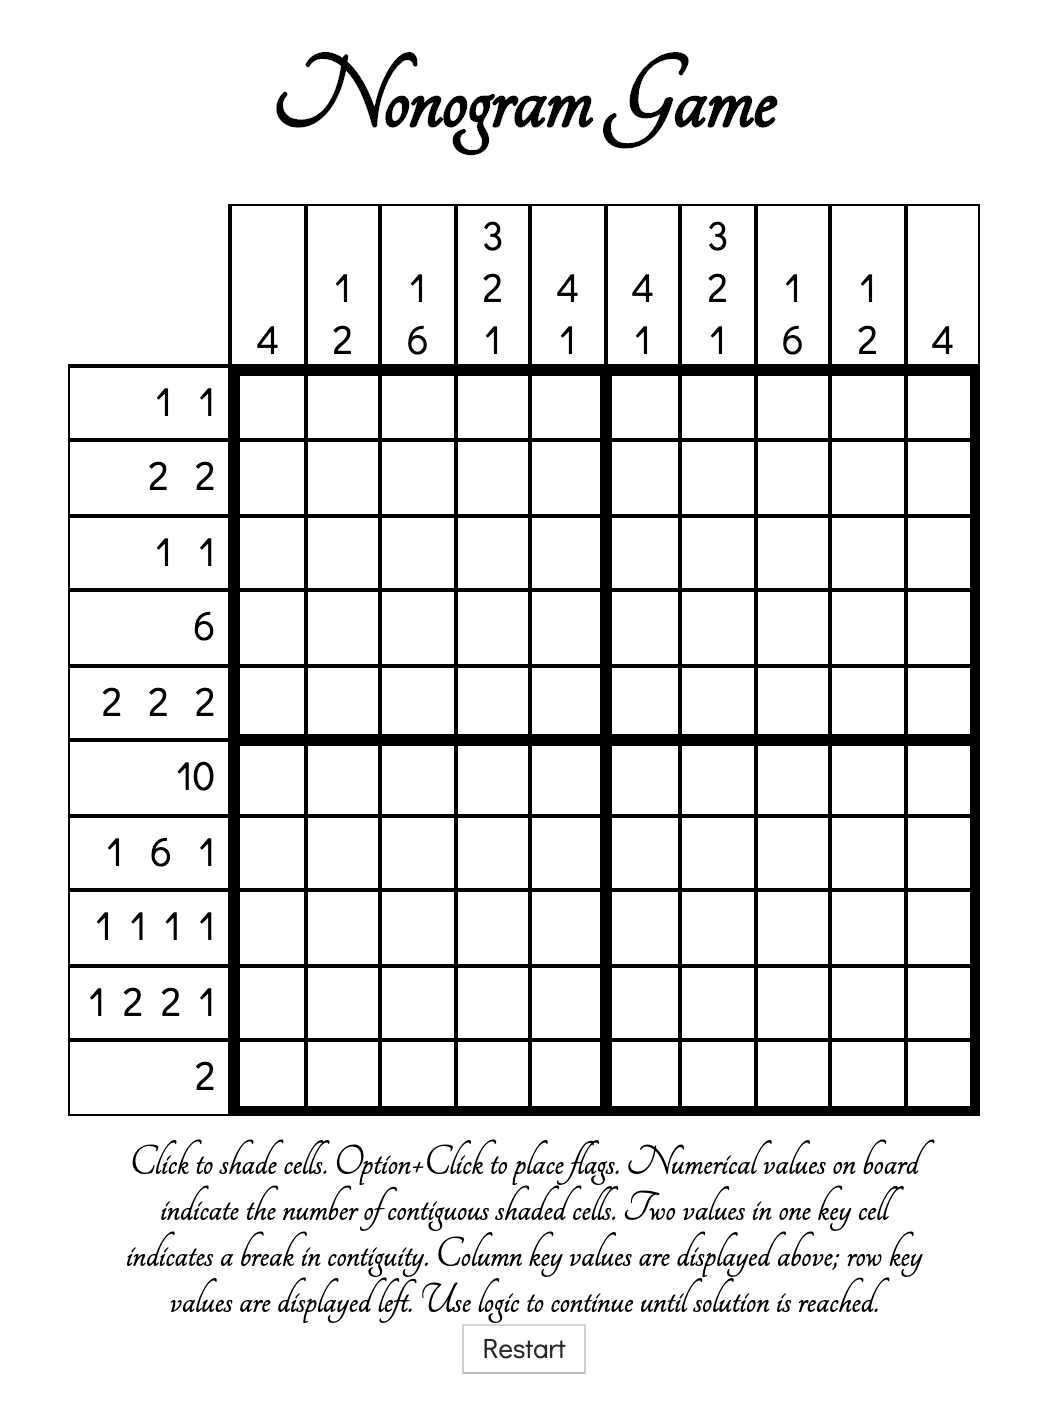
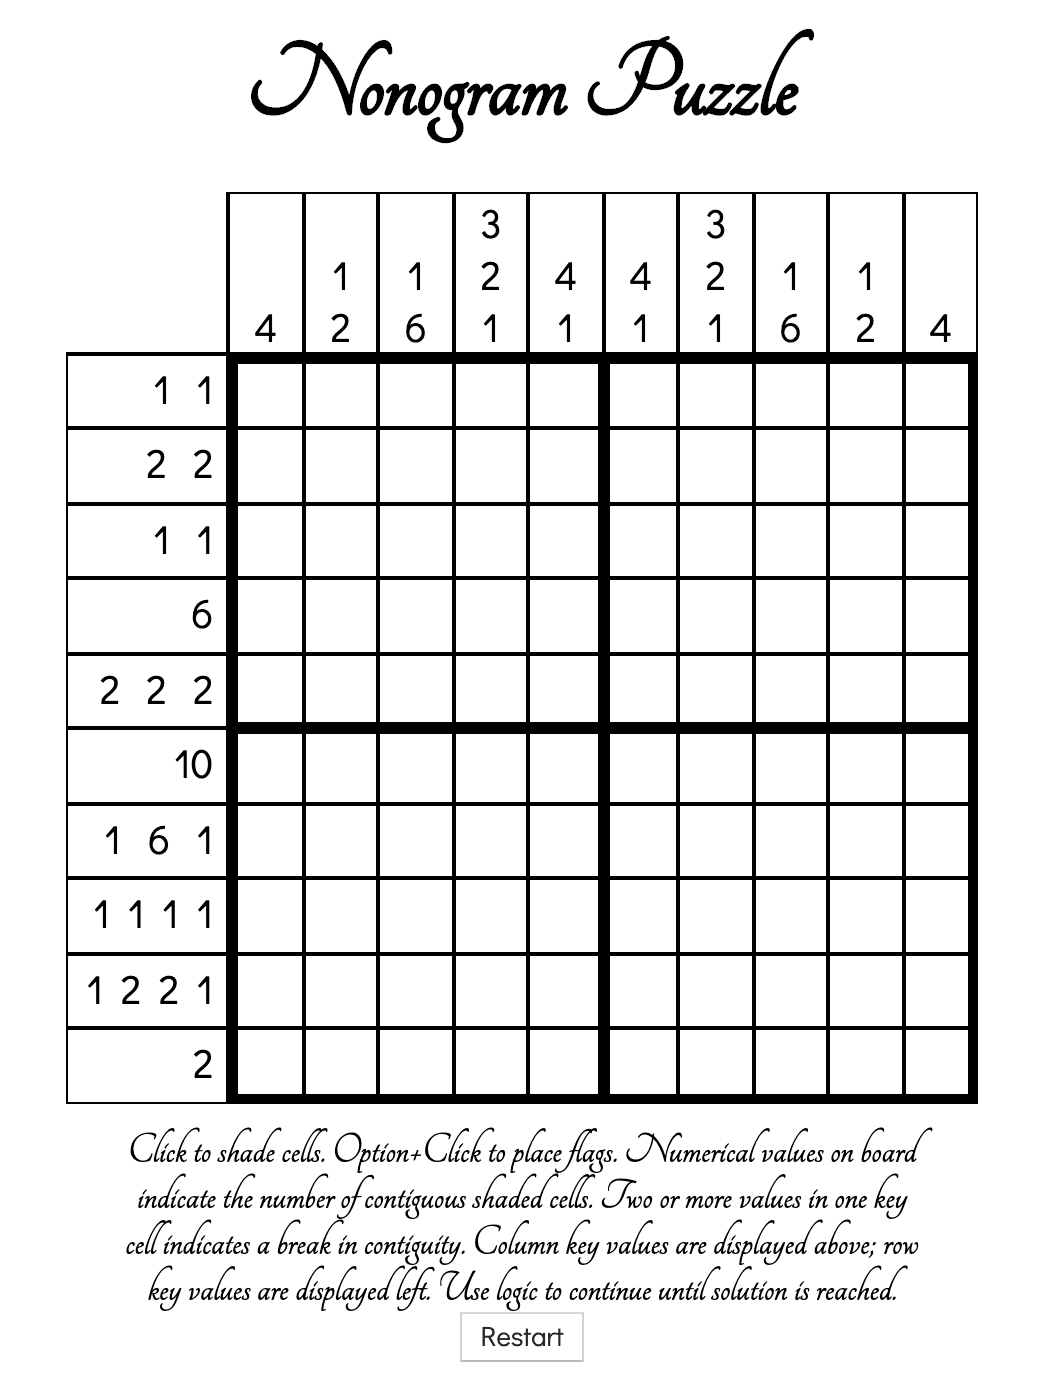
Change name, add instructions to readme

Changed region(s): [[0.0612, 0.0307, 0.9484, 0.9829], [0.0612, 0.6757, 0.2447, 0.7371], [0.0612, 0.7679, 0.0918, 0.7986]]

diff --git a/js/main.js b/js/main.js
@@ -20,11 +20,11 @@ var board;
 /*----- cached element references -----*/
 var cells = document.querySelectorAll('div');
 var headline = document.getElementById('headline');
-var gameBoard = document.getElementById('gameboard');
+var puzzleBoard = document.getElementById('puzzleboard');
 var restartButton = document.getElementById('restart');
 
 /*----- event listeners -----*/
-gameBoard.addEventListener('mousedown', handleClick);
+puzzleBoard.addEventListener('mousedown', handleClick);
 restartButton.addEventListener('click', cleanBoard);
 
 /*----- functions -----*/
@@ -34,7 +34,7 @@ initialize();
 function cleanBoard() {
     initialize()
     cells.forEach(function (el) {el.style.backgroundColor = ''})
-    headline.innerHTML = 'Nonogram Game';
+    headline.innerHTML = 'Nonogram Puzzle';
 }
 
 // Make tiles toggle white/black AND toggle cell value 0/1
@@ -67,7 +67,7 @@ function checkWin() {
     if (board.toString() == solution.toString()) {
         headline.innerHTML = 'You Win!';
     } else if (board.toString() !== solution.toString()) {
-        headline.innerHTML = 'Nonogram Game';
+        headline.innerHTML = 'Nonogram Puzzle';
     }
 }
 

diff --git a/index.html b/index.html
@@ -5,7 +5,7 @@
     <meta charset="UTF-8">
     <meta name="viewport" content="width=device-width, initial-scale=1.0">
     <meta http-equiv="X-UA-Compatible" content="ie=edge">
-    <title>Nonogram Game</title>
+    <title>Nonogram Puzzle</title>
     <link href="https://fonts.googleapis.com/css?family=Didact+Gothic" rel="stylesheet">
     <link href="https://fonts.googleapis.com/css?family=Tangerine" rel="stylesheet">
     <link rel="stylesheet" href="css/style.css">
@@ -13,7 +13,7 @@
 </head>
 
 <body>
-    <h1 id="headline">Nonogram Game</h1>
+    <h1 id="headline">Nonogram Puzzle</h1>
     <section class="topkey">
         <div id="c0r0"></div>
         <div id="c1r0">4</div>
@@ -28,7 +28,7 @@
         <div id="c10r0">4</div>
     </section>
 
-    <section id="gameboard">
+    <section id="puzzleboard">
         <div class="leftkey" id="c0r1">1 &nbsp;&nbsp;1</div>
         <div id="c1r1"></div>
         <div id="c2r1"></div>

diff --git a/css/style.css b/css/style.css
@@ -26,7 +26,7 @@ button {
     font-family: 'Didact Gothic', sans-serif;
 }
 
-#gameboard {
+#puzzleboard {
     display: grid;
     grid-template-columns: 65px repeat(10, 30px);
     grid-template-rows: 30px repeat(9, 30px); 

diff --git a/README.md b/README.md
@@ -1,16 +1,30 @@
-# Nonogram Game
+# Nonogram Puzzle
 #### Description
 *Nonograms were created in 1987 by Japanese designer Non Ishida, when she won a design competition by illuminating specific rooms in a skyscraper to create an image. The resulting paper puzzles Ishida created became popularized in 1990 through their regular inclusion in the British newspaper, "The Sunday Telegraph". Nonograms are also commonly known as Griddlers or Picross. One early example of these puzzles in popular culture was Nintendo's 1995 release of "Mario's Picross" for Game Boy.*
 
-![Nonogram Game Screenshot](images/nonogram-screenshot.png "Nonogram Game Screenshot")
+![Nonogram Screenshot](images/nonogram-screenshot.png "Nonogram Screenshot")
 
-### [Play Game](https://josephcoburn.github.io/nonogram-game/)
+### [Open Puzzle](https://josephcoburn.github.io/nonogram-game/)
 
 #### Technologies Used:
 *HTML, CSS, Javascript*
 
 #### Getting Started
-*Click to shade cells. Option+Click to place flags. Numerical values on board indicate the number of contiguous shaded cells. Two values in one key cell indicates a break in contiguity. Column key values are displayed above; row key values are displayed left. Use logic to continue until solution is reached.*
+
+*There are a number of strategies you can use to deduce the correct placement of filled-in cells for each row and cell. Read about them 
+[here on wikipedia](https://en.wikipedia.org/wiki/Nonogram#Solution_techniques). See the example below for a guide on how to solve a sample nonogram puzzle.*
+
+Focus on one row at a time. Leave tiles blank if uncertain of row solution. You can deduce the row/column solution with certainty based on some key values, but not always. Using red tiles (option+click for mac, alt+click for pc) to mark spaces in solved rows or columns will help with later deductions.
+
+![Sample Solution](https://media.giphy.com/media/j3KGgQhrRKiLps62I3/giphy.gif)
+
+
+Next focus on each column. Repeat this process until you have found a solution.
+
+![Sample Solution](https://media.giphy.com/media/SqgBF5Zs7fafQIcHrj/giphy.gif)
+
+
+![Sample Solution](https://media.giphy.com/media/U5IlbOo5IoXEHBwfPn/giphy.gif)
 
 #### Next Steps
 Future features include:
